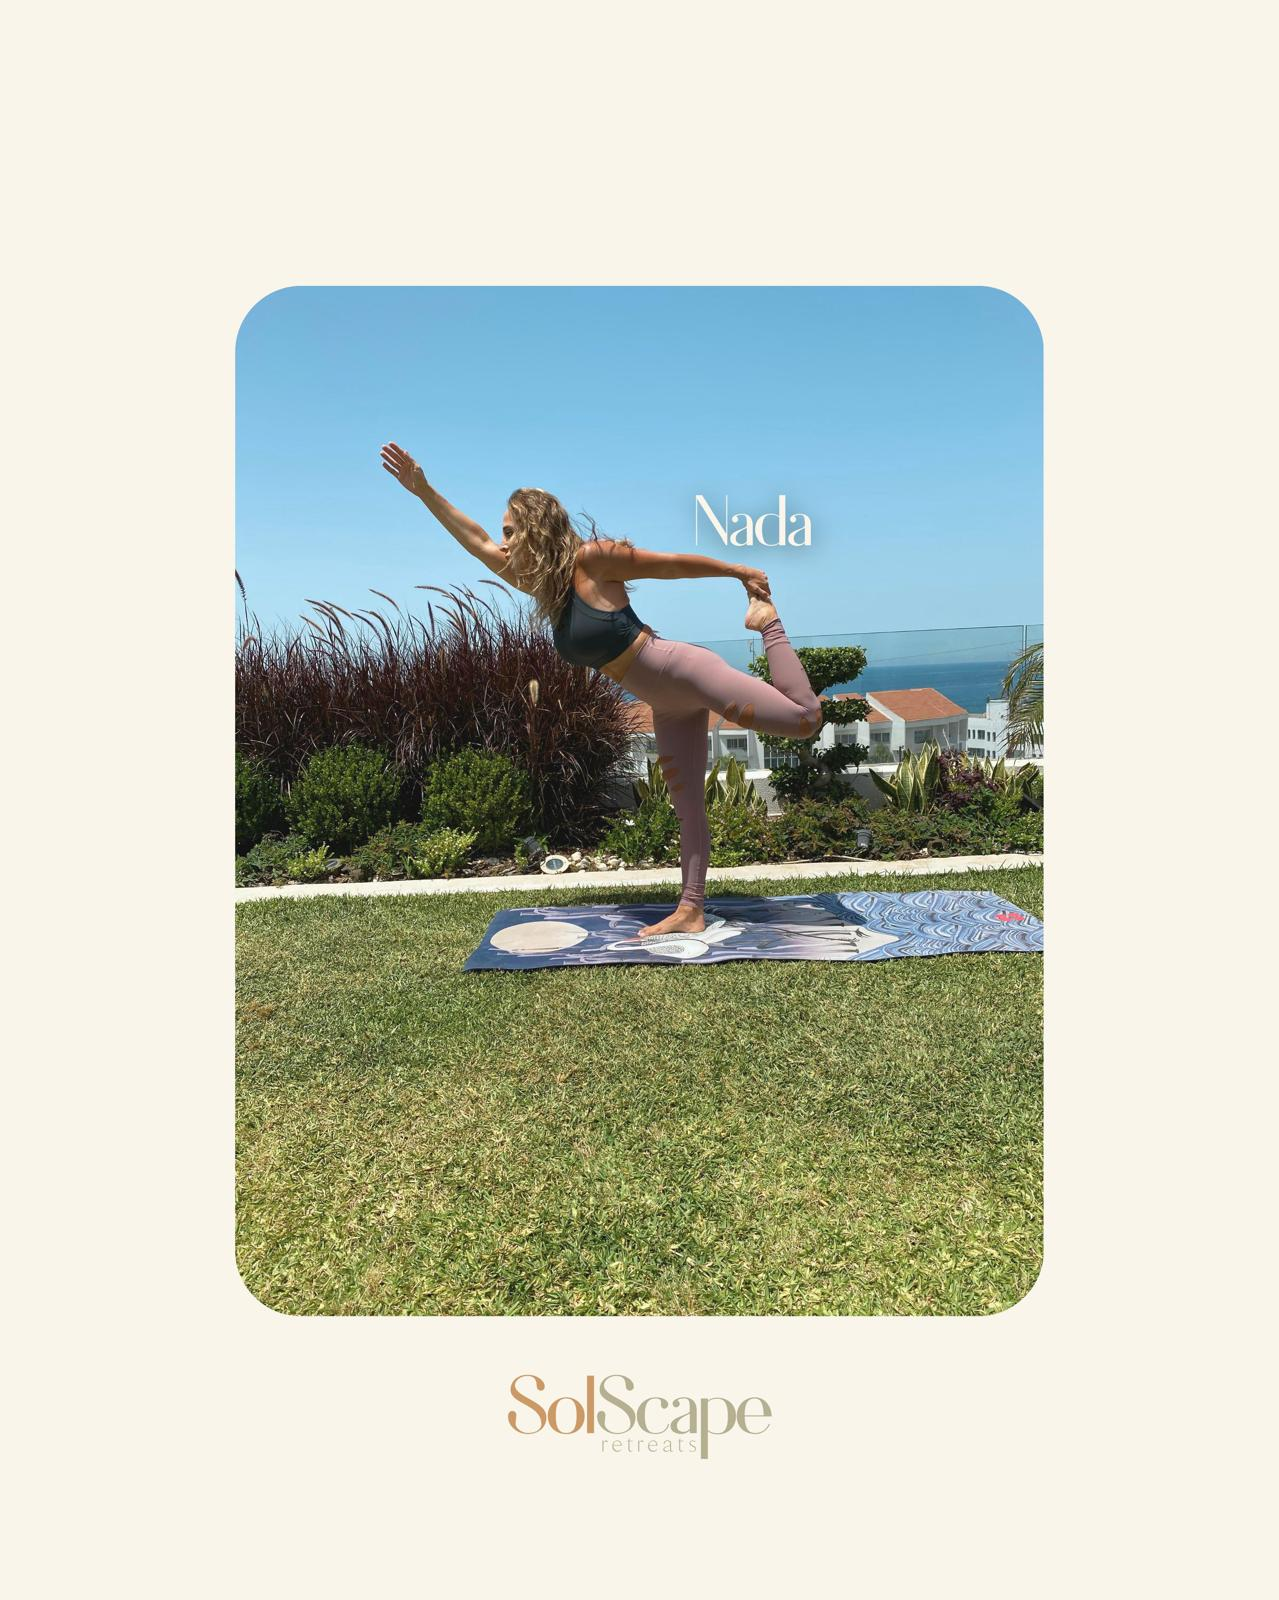
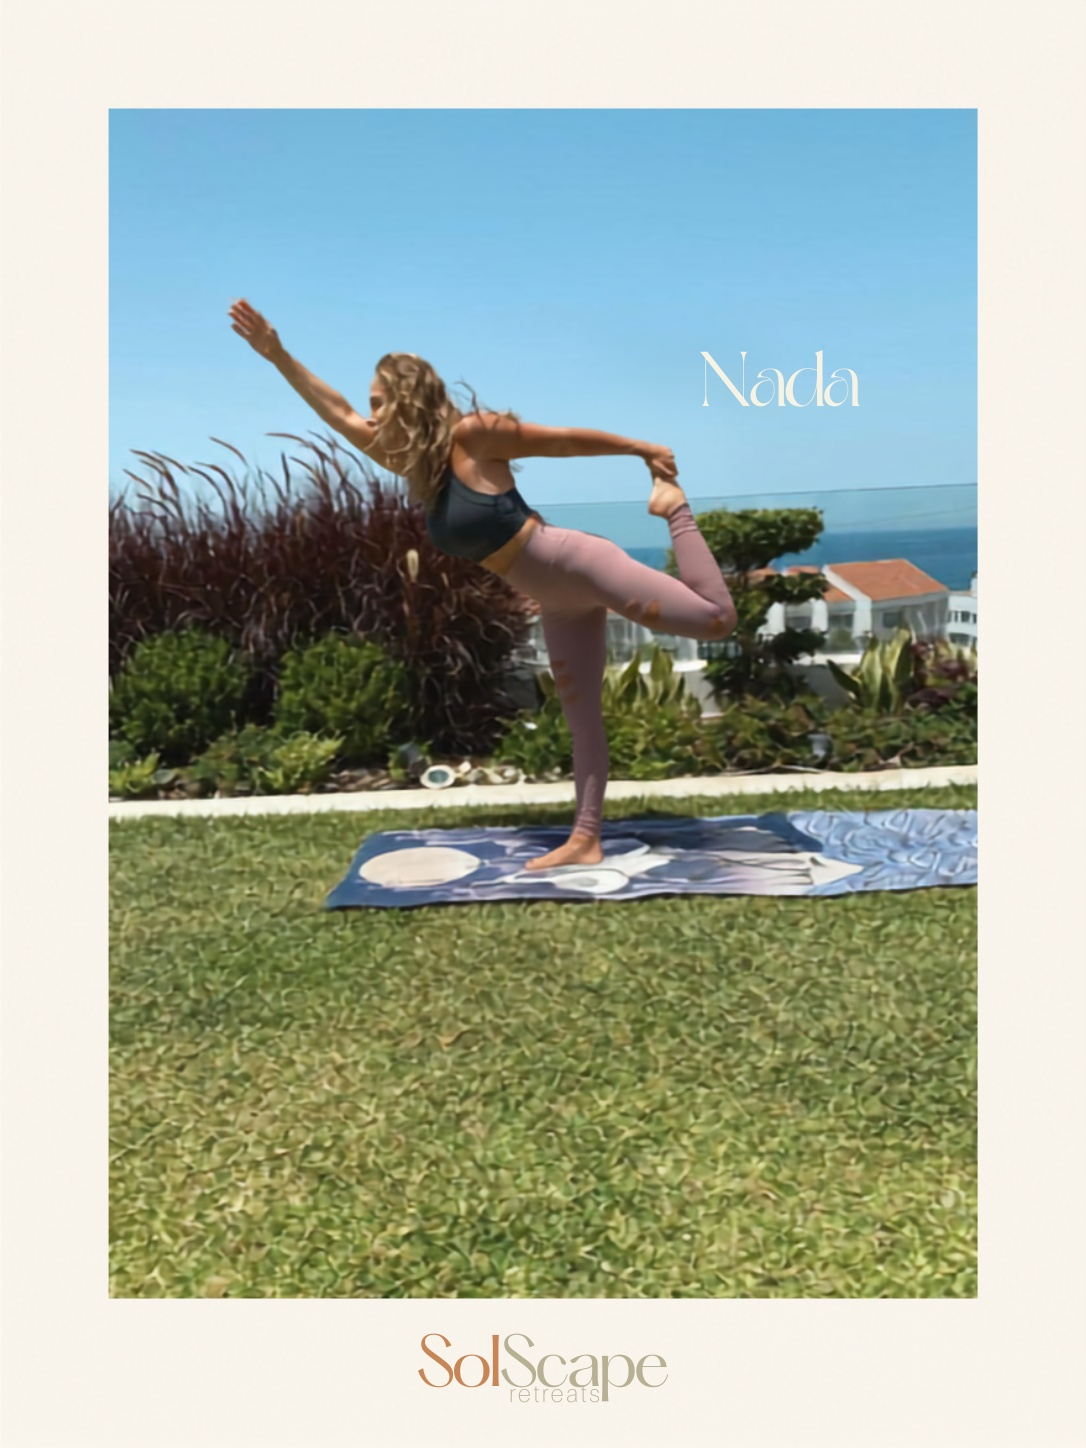
Update founder photos to new JPGs (Nada + Samantha, host + portrait); update refs png to jpg, remove old png

diff --git a/decisions/log.md b/decisions/log.md
@@ -58,3 +58,7 @@ Resolved the badge-clipping flagged above. **Root cause (measured via Chrome Dev
 ## 2026-06-18 — Hero-centering reverted by request (kept blurb + badge fix)
 
 Reverted the detail-hero vertical-centering change (the `.hero-brand-mark` absolute-positioning) — the centered hero didn't look good on mobile. Restored `.hero-brand-mark` in `public/css/styles.css` to its original in-flow form (`margin-top: 28px; display: block; margin-left/right: auto`), so the logo sits back inside the centered `.hero-content` column and the hero text returns to its pre-centering position on all 10 retreat heroes. **Kept intact:** the Greece host-blurb reformat (greece.astro:200 — colon + `<br>`) and the mobile date-badge fix (responsive `.dates-badge` + `.detail-hero .hero-content { min-width: 0; max-width: 100% }` in the `@media (max-width: 768px)` block). Build passes (14 pages); straight quotes. No git.
+
+## 2026-06-18 — New founder photos rescued from dist/ → public/ + reconciled .png→.jpg
+
+The user dropped new founder photos into `dist/images/team/` (build OUTPUT, wiped by `npm run build`) instead of `public/images/team/` (source). Identified genuinely-new files by `md5sum` (not size — `nada-hosts.jpg` and `nada-portrait-1.jpg` coincidentally share a byte size but have different hashes). **Rescued 4 photos** (copied dist→public, hashes verified): `nada-hosts.jpg`, `samantha-hosts.jpg`, `samantha-portrait-1.jpg` (all new, replacing `.png` originals), and `nada-portrait-1.jpg` (changed content, same name — overwrote). `nada-portrait-2/3.jpg` were unchanged build copies, skipped. **Copied BEFORE building** so nothing was lost. **Updated 5 `.png`→`.jpg` refs in `src/`:** `about.astro` (samantha-hosts, nada-hosts), `experience.astro` (nada-hosts, samantha-hosts), `past/spain.astro` (samantha-portrait-1); `spain.astro` nada-portrait-1 was already `.jpg` (content-only change). **Deleted 3 orphaned `.png` source files** from `public/images/team/` (nada-hosts, samantha-hosts, samantha-portrait-1). Legacy root `.html` refs left as-is (deprecated, un-built, out of scope). **Verified:** build passes (14 pages); `dist/images/team/` is the clean `.jpg` set (no stray `.png`); `grep src/` for removed names → 0; `npm run preview` — all 4 images return HTTP 200 `image/jpeg`; About + Spain team `<img>` decoded (`naturalWidth` 1086) and render the new photos (visually confirmed on About). Note: Spain page's Nada portrait now shows the new `nada-portrait-1.jpg`. No git.
